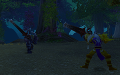
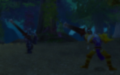
Bg image and wording improvements

diff --git a/index.html b/index.html
@@ -24,7 +24,7 @@ An invite-only Vanilla emulation educational project allowing unpaid volunteers 
 * community management
 * support services
 
-in a familar problem domain (Vanilla) while waiting for the real deal.
+in a familar problem domain (Vanilla) while waiting to burn their freetime again on the real deal™.
 </pre>
 
 <pre>

diff --git a/static/blitz.css b/static/blitz.css
@@ -1,6 +1,5 @@
 body {
     background: url('drak_drakon.png');
-    /*background-repeat: no-repeat;*/
     background-size: cover;
     color: yellow;
 }
